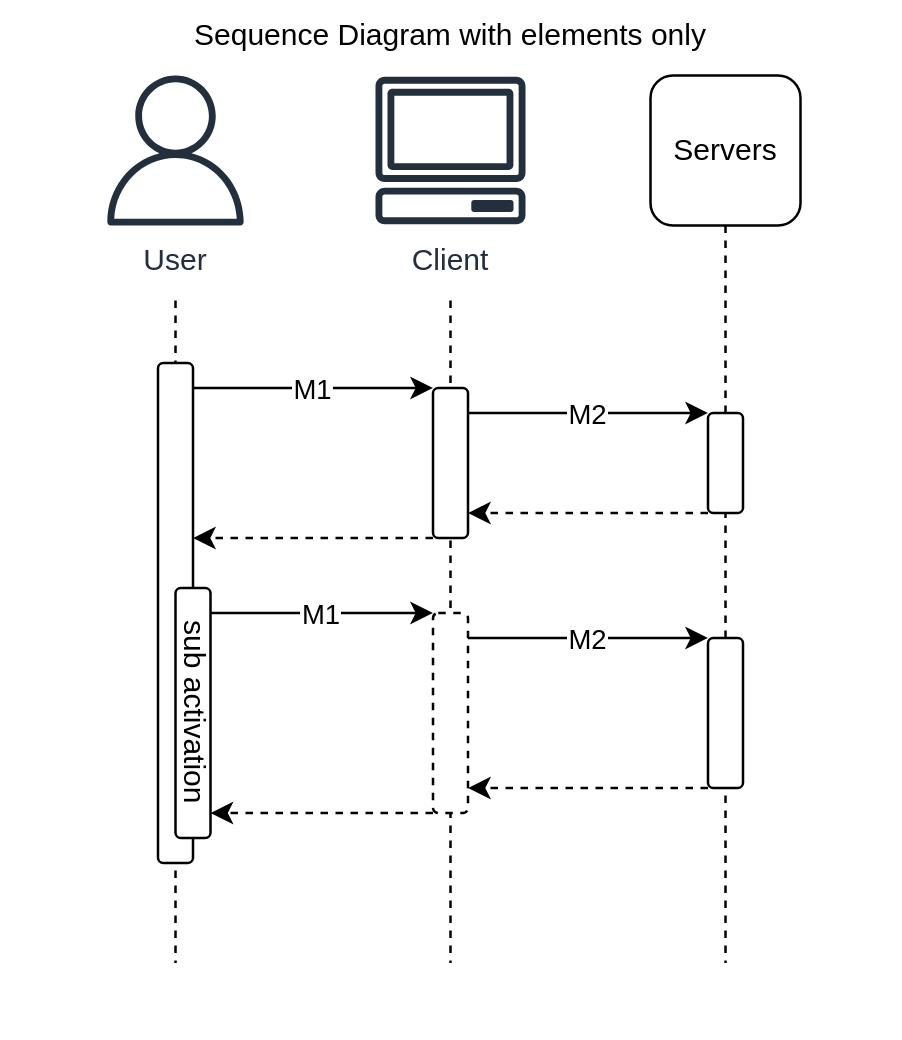
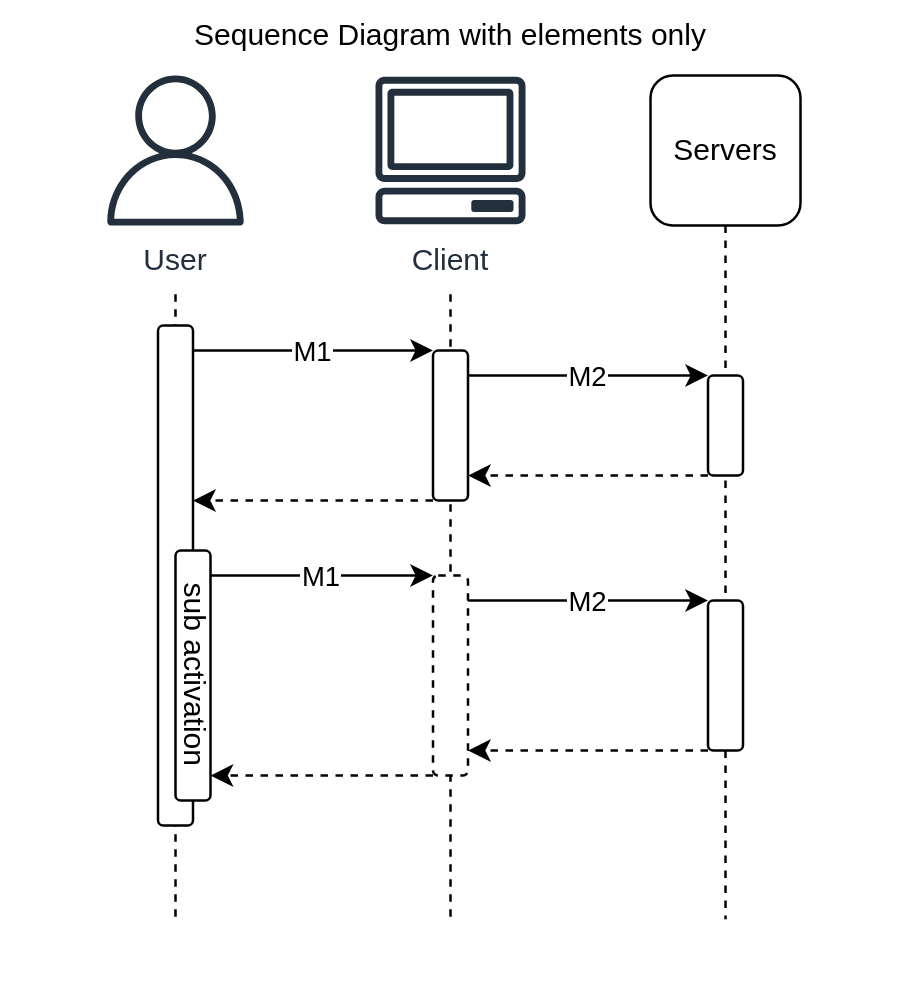
Adapt sequence diagram to new dimension

diff --git a/core/standard-components-diagrams/src/composites/sequence-diagram/participant.tsx b/core/standard-components-diagrams/src/composites/sequence-diagram/participant.tsx
@@ -1,4 +1,5 @@
 import { type DiagramNodeProps, Rows, Shape } from '@diac/base-components'
+import { defaultDiagramOptions } from '@diac/renderer-drawio'
 
 type ParticipantProps = {
   _width: number
@@ -22,9 +23,9 @@ export function Participant(
 ) {
   const hasIcon = !!icon
   const Icon = icon || Shape
-  const dashedLineHeight =
-    (hasIcon ? lifelineHeight : lifelineHeight + paddingY * 2) +
-    paddingY
+  const dashedLineHeight = hasIcon
+    ? lifelineHeight
+    : lifelineHeight + defaultDiagramOptions.dimension.textHeight + paddingY / 2
   return (
     <Rows>
       <Icon
@@ -33,7 +34,7 @@ export function Participant(
             margin: {
               left: paddingX / 2,
               right: paddingX / 2,
-              bottom: hasIcon ? paddingY : 0,
+              bottom: hasIcon ? paddingY / 2 : 0,
             },
           },
         }}
@@ -45,7 +46,7 @@ export function Participant(
         _diagram={{
           dimension: {
             margin: {
-              top: hasIcon ? paddingY : 0,
+              top: 0,
             },
           },
         }}
@@ -53,7 +54,7 @@ export function Participant(
       />
       <Rows
         _x={paddingX / 2 + props._width / 2}
-        _y={paddingY * 4 + props._height}
+        _y={paddingY * 3 + props._height}
       >
         {children}
       </Rows>

diff --git a/core/standard-components-diagrams/src/composites/sequence-diagram/types.tsx b/core/standard-components-diagrams/src/composites/sequence-diagram/types.tsx
@@ -3,6 +3,7 @@ import { DiagramNodeProps } from '@diac/base-components'
 import { ActivationProps } from './activation.tsx'
 import { MessageProps } from './message.tsx'
 import { FrameProps } from './frame.tsx'
+import { defaultDiagramOptions } from '@diac/renderer-drawio'
 
 export const ParticipantSchema = z.object({
   title: z.string().optional(),
@@ -25,7 +26,7 @@ export const InteractionSchema = z.object({
 })
 
 export const SizeSchema = z.object({
-  participant: z.number().default(60),
+  participant: z.number().default(defaultDiagramOptions.dimension.boxWidth),
   paddingTimeline: z.number().default(16),
   paddingBetweenMessages: z.number().default(50),
   paddingBetweenParticipants: z.number().default(50),
@@ -40,7 +41,7 @@ export const SequenceDiagramSchema = z.object({
   messages: MessageSchema.array().optional(),
   interactions: InteractionSchema.array().default([]),
   size: SizeSchema.default({
-    participant: 60,
+    participant: defaultDiagramOptions.dimension.boxWidth,
     paddingTimeline: 15,
     paddingBetweenMessages: 15,
     paddingBetweenParticipants: 150,

diff --git a/core/renderer-drawio/src/processors/p15ResolveAttrDiagram.tsx b/core/renderer-drawio/src/processors/p15ResolveAttrDiagram.tsx
@@ -8,7 +8,7 @@ import type {
 } from '../types.ts'
 import { handleAttributes } from '../attribute-handler/index.ts'
 
-const defaultDiagramOptions: base.Props = {
+export const defaultDiagramOptions = {
   flags: {
     isDirectionVertical: false,
   },
@@ -59,7 +59,7 @@ const defaultDiagramOptions: base.Props = {
   },
 }
 
-const defaultDependencyProps: base.Props = {
+export const defaultDependencyProps: any = {
   dependency: {
     id: (node: base.NodeTree) => node._props._id,
     source: (node: DrawioNodeTree) =>

diff --git a/engine/src/commands/tf/tf-combined-cmds.ts b/engine/src/commands/tf/tf-combined-cmds.ts
@@ -4,11 +4,10 @@ import type {
   CommandContext,
   CommandOptions,
 } from '@diac/cli'
-import { OPTIONS_SYMBOL, RUN_SYMBOL } from '@diac/cli'
+import { doWithStacks, OPTIONS_SYMBOL, RUN_SYMBOL } from '@diac/cli'
 import tf from './index.ts'
 import { runCommand } from '@diac/cli'
 import { diacAppConfig, hostAppHome, requireStacksConfig } from '@diac/cli'
-import { doWithStacks } from '../../utils/index.ts'
 import {
   attachChangeToMR,
   isCi,

diff --git a/examples/diagram/sequence/elements/App.tsx b/examples/diagram/sequence/elements/App.tsx
@@ -1,7 +1,6 @@
-import { Rows, Shape } from "@diac/base-components";
+import { Shape } from "@diac/base-components";
 import {
     Activation,
-    Frame,
     Message,
     Participant,
 } from "@diac/standard-components-diagrams/sequenceDiagram";

diff --git a/core/renderer-drawio/src/index.ts b/core/renderer-drawio/src/index.ts
@@ -1,2 +1,6 @@
 export type { DrawioNodeTree, Point } from './types.ts'
 export { renderDrawio } from './renderDrawio.tsx'
+export {
+  defaultDependencyProps,
+  defaultDiagramOptions,
+} from './processors/p15ResolveAttrDiagram.tsx'

diff --git a/examples/diagram/sequence/data/App.tsx b/examples/diagram/sequence/data/App.tsx
@@ -1,4 +1,3 @@
-import { Shape } from "@diac/base-components";
 import {
     SequenceDiagram,
 } from "@diac/standard-components-diagrams/sequenceDiagram";

diff --git a/examples/diagram/sequence/data/output/App.md b/examples/diagram/sequence/data/output/App.md
@@ -2,4 +2,4 @@
 
 ## Overview
 
-![Overview](App.png)
+![Overview](app.png)

diff --git a/examples/diagram/sequence/elements/output/App.md b/examples/diagram/sequence/elements/output/App.md
@@ -2,4 +2,4 @@
 
 ## Overview
 
-![Overview](App.png)
+![Overview](app.png)
